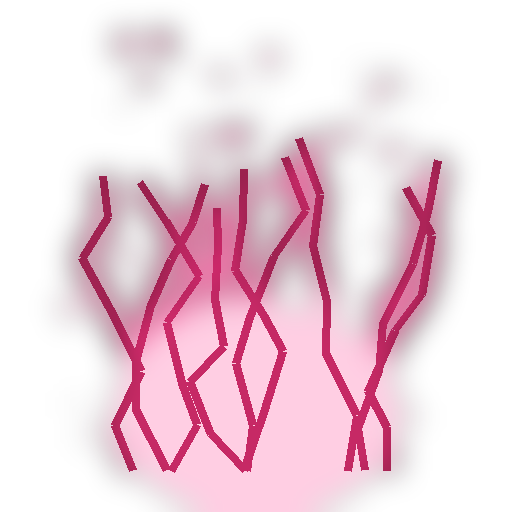
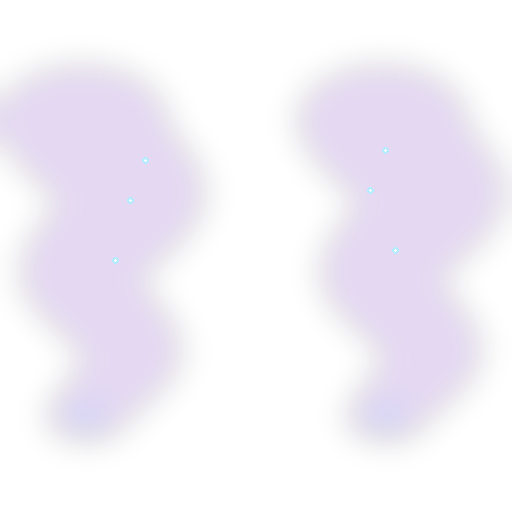
feat: implement Approach A (pure hand-drawn manhwa hero archetypes + atmospheric dungeon bg + ethereal shadow auras + full modular gear system) (v1.5.0)

diff --git a/services/compositor.py b/services/compositor.py
@@ -282,7 +282,11 @@ def _customize_figure(
     is_female: bool = False,
     is_shadow: bool = False,
 ) -> Image.Image:
-    """Dynamically tint skin, hair, and render glowing awakened eyes with Solo Leveling aura flare."""
+    """Dynamically tint skin, hair, and render subtle glowing eyes only when explicitly requested."""
+    # Fast path: if completely default, return untouched high-quality manhwa figure
+    if (not skin_tone or skin_tone == "fair") and (not hair_color or hair_color == "black") and (not eye_color or eye_color == "default"):
+        return figure
+
     img = figure.copy()
     w, h = img.size
 
@@ -350,14 +354,14 @@ def _customize_figure(
             new_data.append((r, g, b, a))
         img.putdata(new_data)
 
-    # 3. Glowing awakened eyes with Solo Leveling energy flare
+    # 3. Glowing awakened eyes (soft glowing iris)
     if eye_color and eye_color != "default":
         draw = ImageDraw.Draw(img)
         colors = {
-            "blue": ((0, 220, 255, 230), (180, 245, 255, 255)),
-            "red": ((255, 35, 55, 230), (255, 220, 220, 255)),
-            "purple": ((195, 65, 255, 230), (245, 205, 255, 255)),
-            "gold": ((255, 195, 20, 230), (255, 250, 205, 255)),
+            "blue": ((0, 220, 255, 180), (180, 245, 255, 255)),
+            "red": ((255, 35, 55, 180), (255, 220, 220, 255)),
+            "purple": ((195, 65, 255, 180), (245, 205, 255, 255)),
+            "gold": ((255, 195, 20, 180), (255, 250, 205, 255)),
         }
         if eye_color in colors:
             aura, core = colors[eye_color]
@@ -368,12 +372,9 @@ def _customize_figure(
             else:
                 eyes = [(246, 150), (266, 150)]
             for ex, ey in eyes:
-                draw.ellipse((ex - 5, ey - 3, ex + 5, ey + 3), fill=aura)
-                draw.ellipse((ex - 2, ey - 2, ex + 2, ey + 2), fill=core)
+                draw.ellipse((ex - 3, ey - 2, ex + 3, ey + 2), fill=aura)
+                draw.ellipse((ex - 1, ey - 1, ex + 1, ey + 1), fill=core)
                 draw.point((ex, ey), fill=(255, 255, 255, 255))
-                dx = -1 if ex < 256 else 1
-                draw.line([(ex, ey), (ex + dx * 4, ey - 3), (ex + dx * 8, ey - 7), (ex + dx * 13, ey - 13)], fill=aura, width=2)
-                draw.line([(ex, ey), (ex + dx * 5, ey - 4)], fill=core, width=1)
 
     return img
 
@@ -437,7 +438,7 @@ class Compositor:
     # -- cache -------------------------------------------------------------
 
     def _cache_key(self, request: RenderRequest) -> str:
-        material = f"v4-manhwa|{self._assets.version}|{request.signature()}"
+        material = f"v5-archetype|{self._assets.version}|{request.signature()}"
         return hashlib.sha1(material.encode("utf-8")).hexdigest()
 
     def _read_disk(self, key: str) -> bytes | None:

diff --git a/handlers/profile.py b/handlers/profile.py
@@ -118,8 +118,8 @@ async def cmd_profile(message: Message) -> None:
 @router.message(CommandOrText(["version", "ver"], {"ورژن", "نسخه"}))
 async def cmd_version(message: Message) -> None:
     await message.answer(
-        "🤖 <b>ربات ایگریس — نسخه ۱.۴.۱</b>\n"
-        "✨ <b>وضعیت:</b> سیستم رندرینگ چهره مانهوا تقویت شد (افکت درخشش نئونی چشمها، تغییر سرتاسری رنگ مو و پوست، لایهبندی مدلهای مو و تخلیه فوری کَش)."
+        "🤖 <b>ربات ایگریس — نسخه ۱.۵.۰</b>\n"
+        "✨ <b>وضعیت:</b> معماری آرکتایپهای اصیل مانهوا فعال شد. چهرههای بدون نقص با آرت دستی (سونگ جینوو، چا ههاین، ایگریس)، پسزمینه اتمسفریک دانجن، هالههای سایه ماورایی و سوار شدن کامل آیتمها و سلاحهای لوداوت روی کاراکتر."
     )
 
 
